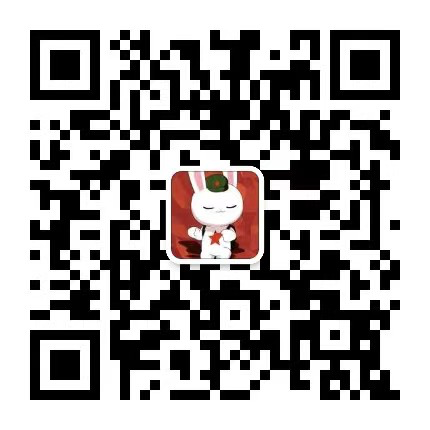
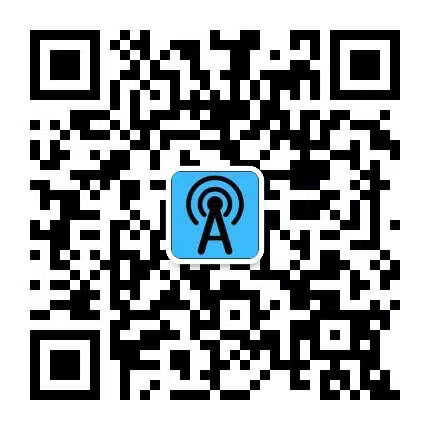
更新

Changed region(s): [[0.393, 0.393, 0.6047, 0.6047]]

diff --git a/src/views/parse/index.vue b/src/views/parse/index.vue
@@ -55,7 +55,7 @@
 <!--        >-->
         <el-table-column  min-width="100px" label="操作">
           <template #default="scope">
-            <el-button @click="vipDownLoad(scope.row)" v-if="!parseInt(scope.row.isdir) && !getToken()" :type="'primary'">快速下载</el-button>
+<!--            <el-button @click="vipDownLoad(scope.row)" v-if="!parseInt(scope.row.isdir) && !getToken()" :type="'primary'">快速下载</el-button>-->
             <el-button
               v-if="!parseInt(scope.row.isdir)"
               :type="scope.row.status == 2 ? 'danger' : 'primary'"
@@ -93,16 +93,17 @@
         title="提示"
         v-model="loadData.WeCharVisible"
     >
-      <img class="qr-code" :src="xiaochengxu" alt="" />
+      <img class="qr-code" :src="loadData.codeUrl" alt="" />
       <div class="file-name">文件名：{{loadData.item.server_filename}}</div>
-      <el-form ref="codeRef" :model="form"  label-width="auto" :rules="codeRules" style="max-width: 600px;margin: 20px auto 0px">
-        <el-form-item prop="code" label="请输入验证码">
-          <el-input v-model="form.code" auto-complete="off" />
-        </el-form-item>
-      </el-form>
-      <div class="qr-hint">扫一扫上方二维码获取验证码</div>
-      <div class="qr-title">只为帮助真正有需求的朋友，随缘每天解析5-10次</div>
-      <div class="qr-title">受网络波动影响有时候可能解析失败，再次点击解析按钮重试几次即可！！</div>
+<!--      <el-form ref="codeRef" :model="form"  label-width="auto" :rules="codeRules" style="max-width: 600px;margin: 20px auto 0px">-->
+<!--        <el-form-item prop="code" label="请输入验证码">-->
+<!--          <el-input v-model="form.code" auto-complete="off" />-->
+<!--        </el-form-item>-->
+<!--      </el-form>-->
+<!--      <div class="qr-hint">扫一扫上方二维码获取验证码</div>-->
+      <div class="qr-title">【每人每天的免费下载额度会刷新但是总额度有限(因为服务器资源紧张)如果提示下载不了
+        那就只可能是我在休息或有事还没来得及维护实在急的可以联系我</div>
+<!--      <div class="qr-title">受网络波动影响有时候可能解析失败，再次点击解析按钮重试几次即可！！</div>-->
       <template #footer>
         <span class="dialog-footer">
           <el-button type="primary" :loading="isSending"
